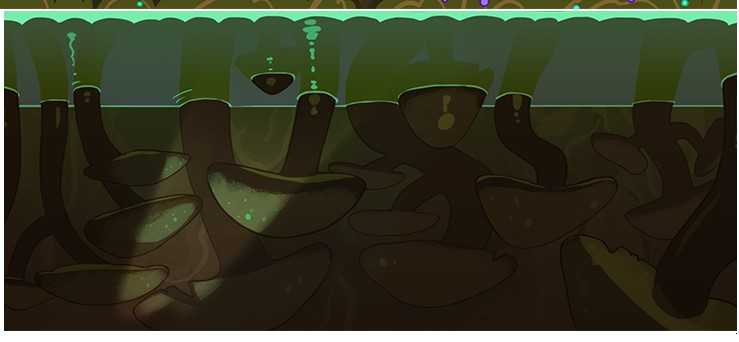
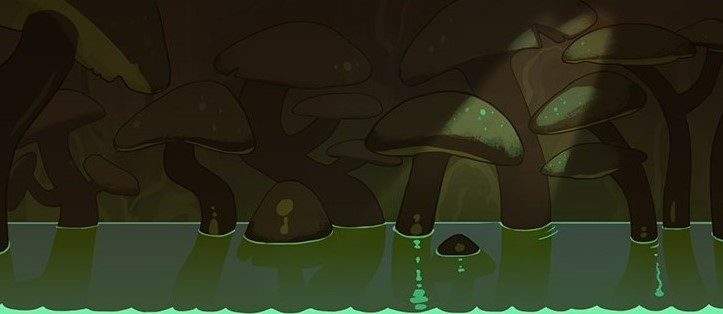
crash detail, add notice

diff --git a/js/class.js b/js/class.js
@@ -112,22 +112,22 @@ class Stage {
         this.jumpObstaclePosition.indexOf(jellyPosition + 100) === -1 &&
         this.slideObstaclePosition.indexOf(jellyPosition + 100) === -1
       ) {
-        allJellyComProp.arr[i] = new Jelly(jellyPosition, gameProp.screenHeight * 0.675, 100);
+        allJellyComProp.arr[i] = new Jelly(jellyPosition, gameProp.screenHeight * 0.675, "");
       } else if (this.doubleJumpObstaclePosition.indexOf(jellyPosition + 100) !== -1) {
-        allJellyComProp.arr[i] = new Jelly(jellyPosition, gameProp.screenHeight * 0.225, 100);
-        allJellyComProp.arr[i + 1] = new Jelly(jellyPosition + 100, gameProp.screenHeight * 0.225, 100);
-        allJellyComProp.arr[i + 2] = new Jelly(jellyPosition + 200, gameProp.screenHeight * 0.225, 100);
+        allJellyComProp.arr[i] = new Jelly(jellyPosition, gameProp.screenHeight * 0.225, "big_bear");
+        allJellyComProp.arr[i + 1] = new Jelly(jellyPosition + 100, gameProp.screenHeight * 0.225, "big_bear");
+        allJellyComProp.arr[i + 2] = new Jelly(jellyPosition + 200, gameProp.screenHeight * 0.225, "big_bear");
         i += 2;
       } else if (this.jumpObstaclePosition.indexOf(jellyPosition + 100) !== -1) {
-        allJellyComProp.arr[i] = new Jelly(jellyPosition, gameProp.screenHeight * 0.475, 100);
-        allJellyComProp.arr[i + 1] = new Jelly(jellyPosition + 100, gameProp.screenHeight * 0.475, 100);
-        allJellyComProp.arr[i + 2] = new Jelly(jellyPosition + 200, gameProp.screenHeight * 0.475, 100);
+        allJellyComProp.arr[i] = new Jelly(jellyPosition, gameProp.screenHeight * 0.475, "yellow_bear");
+        allJellyComProp.arr[i + 1] = new Jelly(jellyPosition + 100, gameProp.screenHeight * 0.475, "pink_bear");
+        allJellyComProp.arr[i + 2] = new Jelly(jellyPosition + 200, gameProp.screenHeight * 0.475, "blue_bear");
         i += 2;
       } else if (this.slideObstaclePosition.indexOf(jellyPosition + 100) !== -1) {
-        allJellyComProp.arr[i] = new Jelly(jellyPosition, gameProp.screenHeight * 0.775, 100);
-        allJellyComProp.arr[i + 1] = new Jelly(jellyPosition + 100, gameProp.screenHeight * 0.775, 100);
-        allJellyComProp.arr[i + 2] = new Jelly(jellyPosition + 200, gameProp.screenHeight * 0.775, 100);
-        allJellyComProp.arr[i + 3] = new Jelly(jellyPosition + 300, gameProp.screenHeight * 0.775, 100);
+        allJellyComProp.arr[i] = new Jelly(jellyPosition, gameProp.screenHeight * 0.775, "yellow_bear");
+        allJellyComProp.arr[i + 1] = new Jelly(jellyPosition + 100, gameProp.screenHeight * 0.775, "yellow_bear");
+        allJellyComProp.arr[i + 2] = new Jelly(jellyPosition + 200, gameProp.screenHeight * 0.775, "yellow_bear");
+        allJellyComProp.arr[i + 3] = new Jelly(jellyPosition + 300, gameProp.screenHeight * 0.775, "yellow_bear");
         i += 3;
       }
     }
@@ -283,13 +283,13 @@ class Cookie {
 }
 
 class Jelly {
-  constructor(x, y, score) {
+  constructor(x, y, type) {
     this.parentNode = document.querySelector(".game");
     this.el = document.createElement("div");
-    this.el.className = "jelly";
+    this.el.className = `jelly ${type}`;
     this.x = x;
     this.y = y;
-    this.score = score;
+    this.score = type === "" ? 100 : type === "yellow_bear" ? 200 : type === "pink_bear" ? 300 : type === "blue_bear" ? 500 : type === "big_bear" ? 1000 : 0;
 
     this.init();
   }
@@ -362,9 +362,12 @@ class Obstacle {
       cookie.crashed = true;
       cookie.minusHp(this.damage * -1);
       document.querySelector(".cookie").classList.add("crashed");
+      document.querySelector(".crash_filter").style.display = "block";
 
       setTimeout(() => {
         document.querySelector(".cookie").classList.remove("crashed");
+        document.querySelector(".crash_filter").style.display = "none";
+
         cookie.crashed = false;
       }, 1000);
     }

diff --git a/css/game.css b/css/game.css
@@ -32,6 +32,26 @@ body {
   background-repeat: repeat-x;
   background-size: auto 100%;
 }
+@keyframes crash {
+  0%{
+    opacity: 0;
+  }
+  100%{
+    opacity: 0.5;
+  }
+}
+.game_app .crash_filter {
+  position: absolute;
+  width: 100%;
+  height: 100%;
+  left: 0%;
+  background-color: red;
+  opacity: 0;
+  display: none;
+  z-index: 15;
+  animation: crash .1s steps(2);
+  animation-iteration-count: 5;
+}
 .game_app .ground {
   position: absolute;
   left: 0;
@@ -260,14 +280,18 @@ body {
   transform: none;
 }
 .cookie_box .cookie.crashed {
-  /* height: 100%; */
-  /* background-image: url("../lib/images/gingerBread_crashed.png"); */
-  /* background-size: 242.5px 269px; */
+  width: 28vh;
+  height: 30vh;
+  bottom: 0%;
+  width: 100%;
+  height: 100%;
+  transform: none;
+  background-image: url("../lib/images/gingerMK_crashed3.png") !important;
+  background-size: 28vh 30vh;
   animation: blink_effect .1s infinite;
-  /* animation: cookie_slide .5s infinite steps(2); */
 }
 .cookie_box .cookie.dead {
-  background-image: url('../lib/images/gingerBrave_dead.png');
+  background-image: url('../lib/images/gingerMK_dead.png') !important;
   background-size: 28vh 30vh;
   width: 100%;
   height: 100%;
@@ -284,6 +308,39 @@ body {
   z-index: 10;
   /* background-color: blue; */
 }
+.jelly.yellow_bear {
+  position: absolute;
+  width: 7.5vh;
+  height: 7.5vh;
+  background-image: url("../lib/jelly/yellow_bear_jelly.png");
+  background-size: 7.5vh 7.5vh;
+  z-index: 10;
+}
+.jelly.pink_bear {
+  position: absolute;
+  width: 7.5vh;
+  height: 7.5vh;
+  background-image: url("../lib/jelly/pink_bear_jelly.png");
+  background-size: 7.5vh 7.5vh;
+  z-index: 10;
+}
+.jelly.blue_bear {
+  position: absolute;
+  width: 7.5vh;
+  height: 7.5vh;
+  background-image: url("../lib/jelly/blue_bear_jelly.png");
+  background-size: 7.5vh 7.5vh;
+  z-index: 10;
+}
+.jelly.big_bear {
+  position: absolute;
+  width: 20vh;
+  height: 20vh;
+  background-image: url("../lib/jelly/big_bear_jelly.png");
+  background-size: 20vh 20vh;
+  z-index: 10;
+}
+
 
 @keyframes stageStart {
   0% {
@@ -333,13 +390,13 @@ body {
 
 @keyframes snacks {
   0% {
-    background-position-x: 0px;
+    background-position-x: 0vh;
   }
   99% {
-    background-position-x: -445px;
+    background-position-x: -75vh;
   }
   100% {
-    background-position-x: -356px;
+    background-position-x: -60vh;
   }
 }
 @keyframes clocks {
@@ -394,17 +451,15 @@ body {
   background-image: url("../lib/obstacles/pink_crystal.png");
   background-size: 15vh 40vh;
 }
-/* .obstacle.snacks {
-  2단
+.obstacle.snacks {
+  /* 2단 */
   position: absolute;
-  width: 89px;
-  height: 247px;
+  width: 15vh;
+  height: 40vh;
   background-image: url("../lib/obstacles/snacks.png");
-  background-size: 445px 247px;
-  z-index: 10;
+  background-size: 75vh 40vh;
   animation: snacks 1s forwards steps(5); 
-  animation-fill-mode: forwards;
-} */
+}
 .obstacle.cake {
   /* 2단 */
   position: absolute;

diff --git a/css/lobby.css b/css/lobby.css
@@ -55,6 +55,58 @@ body {
   animation: cookie_idle 1s infinite;
 }
 
+@keyframes notice {
+  0%{
+    background-size: 240px 142px;
+  }
+  50% {
+    left: 7vw - 6px;
+    bottom: 16.5px;
+    width: 252px;
+    height: 149px;
+    background-size: 252px 149px;
+    line-height: 141.5px;
+    font-size: 42px;
+  }
+  100% {
+    background-size: 240px 142px;
+  }
+}
+
+.lobby .notice {
+  font-family: 'cookieRun Bold';
+  color: red;
+  text-align: center;
+  line-height: 135px;
+  font-size: 40px;
+  position: absolute;
+  left: 7vw;
+  bottom: 20px;
+  width: 240px;
+  height: 142px;
+  background-image: url('../lib/lobby/notice.png');
+  background-size: 240px 142px;
+  text-shadow: 1px 1px 1px #000;
+  /* text-shadow: -2px 0 red, 0 2px red, 2px 0 red, 0 -2px red; */
+  animation: notice 2s infinite;
+}
+.lobby .notice_page {
+  position: absolute;
+  display: none;
+  width: 50vw;
+  height: 60vh;
+  top: 50%;
+  left: 50%;
+  margin-top: -30vh;
+  margin-left: -25vw;
+  background-color: orange;
+  border: 5px double wheat;
+  border-radius: 10px;
+  color: white;
+  text-align: center;
+  font-size: 50px;
+}
+
 
 .lobby .play_button {
   font-family: 'cookieRun Bold';

diff --git a/js/stage.js b/js/stage.js
@@ -15,7 +15,7 @@ const stage1 = {
 
 const stage2 = {
   name: "STAGE2",
-  backgroundUrl: "./lib/backgrounds/game/pearl.png",
+  backgroundUrl: "./lib/backgrounds/game/purple_mud_double.jpeg",
   groundUrl: "./lib/backgrounds/ground/pink_crystal.png",
   length: 10000,
   jumpObstacle: "obstacle green_crystal",
@@ -35,10 +35,25 @@ const stage3 = {
   length: 10000,
   jumpObstacle: "obstacle mini_snack",
   jumpObstaclePosition: [2000, 9000],
-  doubleJumpObstacle: "obstacle cake",
+  doubleJumpObstacle: "obstacle snacks",
   doubleJumpObstaclePosition: [4000, 6000],
   slideObstacle: "obstacle knife",
   slideObstaclePosition: [1000, 7000],
   speed: 14,
   damage: 300,
+};
+
+const stage4 = {
+  name: "STAGE4",
+  backgroundUrl: "./lib/backgrounds/game/mushrooms.jpeg",
+  groundUrl: "./lib/backgrounds/ground/mud.png",
+  length: 10000,
+  jumpObstacle: "obstacle mini_snack",
+  jumpObstaclePosition: [2000, 9000],
+  doubleJumpObstacle: "obstacle snacks",
+  doubleJumpObstaclePosition: [4000, 6000],
+  slideObstacle: "obstacle knife",
+  slideObstaclePosition: [1000, 7000],
+  speed: 16,
+  damage: 400,
 };

diff --git a/js/lobby.js b/js/lobby.js
@@ -5,6 +5,9 @@ const rankGuideBox = document.querySelector(".rank_guide");
 const myPage = () => {
   document.querySelector(".my_page").style.display = document.querySelector(".my_page").style.display === "none" ? "block" : "none";
 };
+const notice = () => {
+  document.querySelector(".notice_page").style.display = document.querySelector(".notice_page").style.display === "none" ? "block" : "none";
+};
 
 const rankGuide = () => {
   rankGuideBox.style.display = rankGuideBox.style.display === "none" ? "block" : "none";
@@ -41,6 +44,7 @@ const init = () => {
 
   rankGuideBox.style.display = "none";
   document.querySelector(".my_page").style.display = "none";
+  document.querySelector(".notice_page").style.display = "none";
 
   if (highestScore >= 12600) {
     rank = "RAINBOW";

diff --git a/index.html b/index.html
@@ -35,6 +35,7 @@
                 </button>
             </div>
         </div>
+        <div class="notice" onclick="notice()">필독</div>
         <button class="play_button" onclick="location.href='game.html'">Play!</button>
         <div class="rank_guide">
             <div class="rank_guide_text">
@@ -42,6 +43,8 @@
             </div>
         </div>
         <div class="my_page">추가 예정</div>
+        <div class="notice_page">NOTICE</div>
+
     </div>
 
     <script type="text/javascript" src="./js/lobby.js" charset="utf-8"></script>

diff --git a/js/game.js b/js/game.js
@@ -19,7 +19,7 @@ const allObstacleComProp = {
 };
 
 const stageInfo = {
-  stage: [stage1, stage2, stage3],
+  stage: [stage1, stage2, stage3, stage4],
   currentStage: {},
   currentStageIndex: localStorage.getItem("currentStageIndex"),
   totalScore: localStorage.getItem("score") * 1,

diff --git a/game.html b/game.html
@@ -12,6 +12,8 @@
 </head>
 <body>
     <div class="game_app">
+        <div class="crash_filter"></div>
+
         <div class="game">
             <div class="cookie_box">
                 <div class="cookie run"></div>
